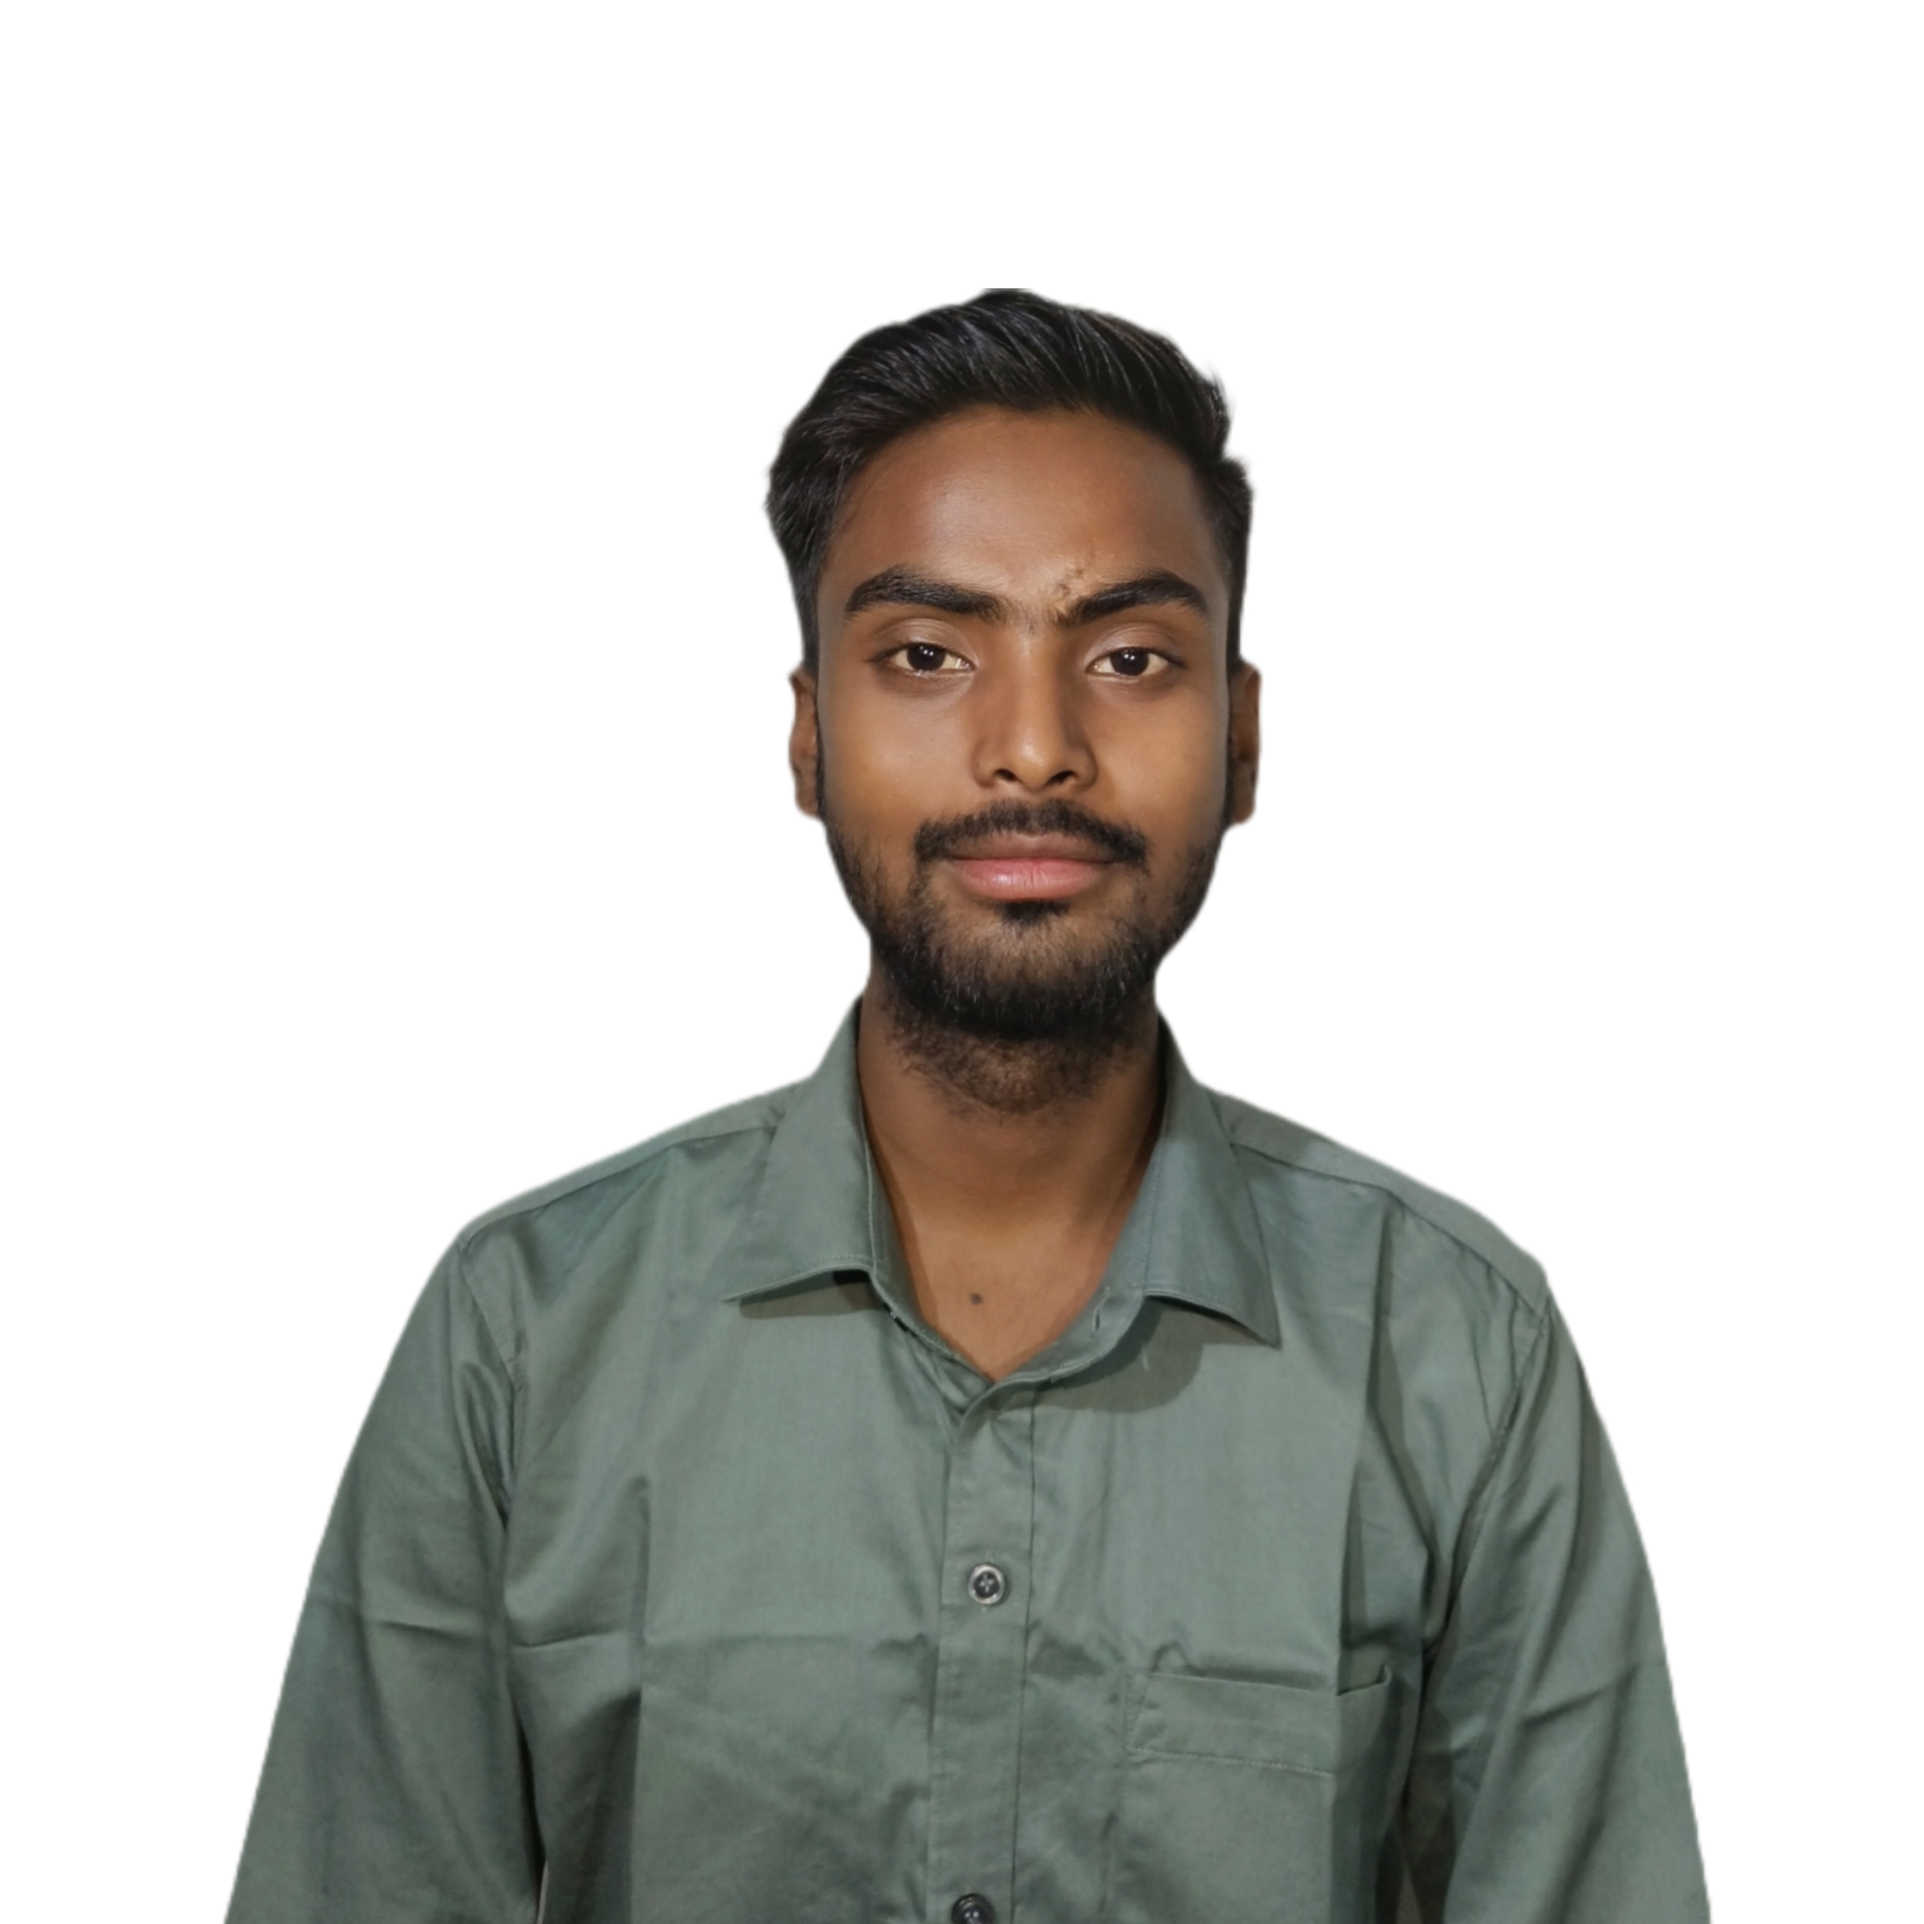
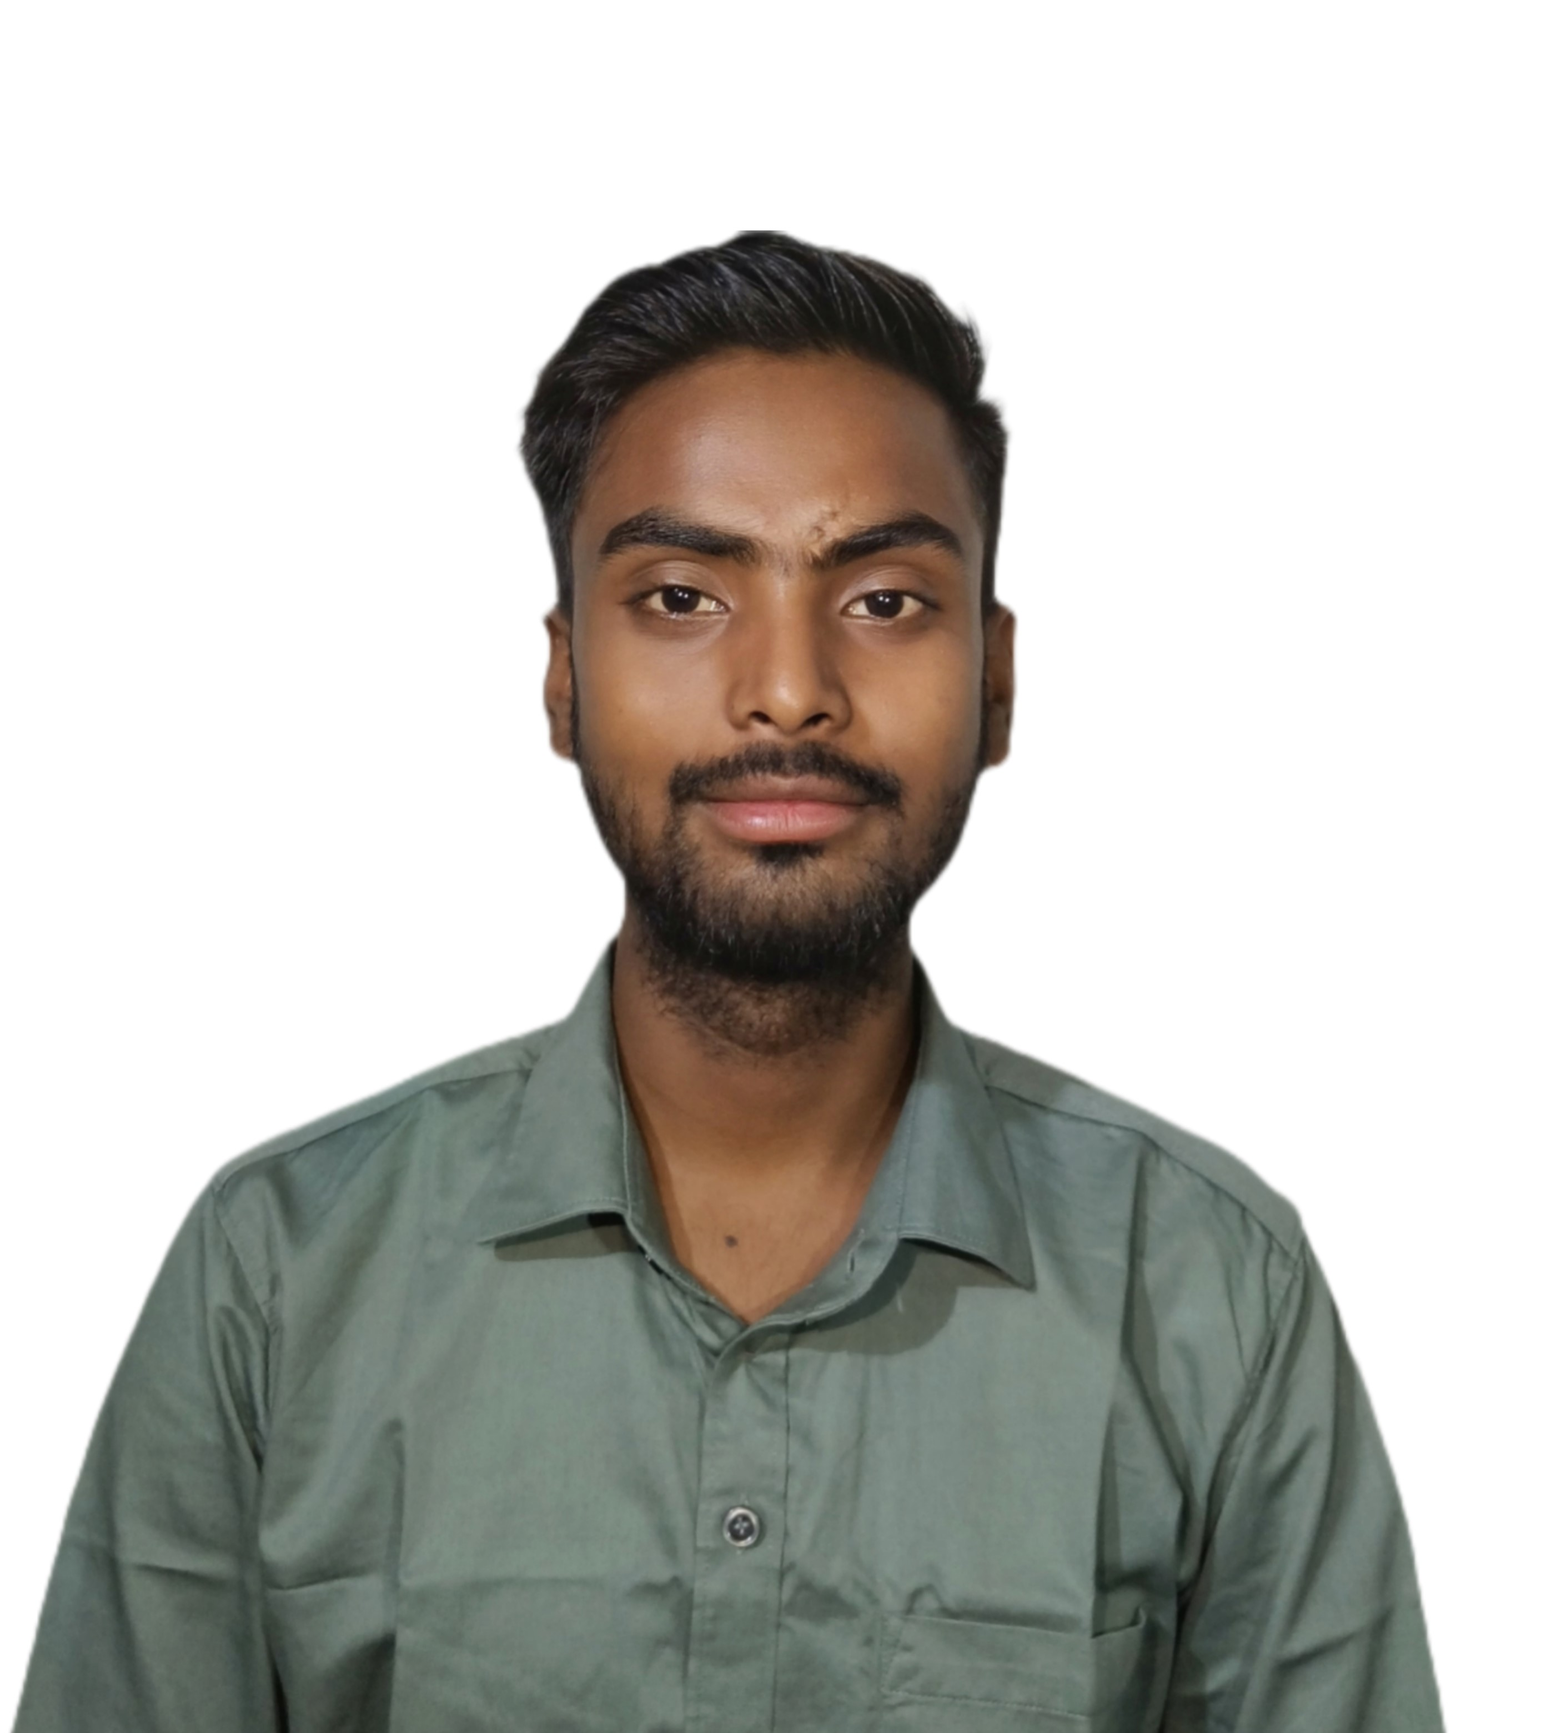
img change

Changed region(s): [[0.0, 0.1244, 0.9315, 1.0]]

diff --git a/index.html b/index.html
@@ -54,7 +54,7 @@
                     </div>
                 </div>
                 <div class="col-sm-4" id="image">
-                    <img src="assets/IMG20241010190218~2.jpg" class="profile-img" alt="">
+                    <img src="assets/Picsart_24-10-10_19-33-59-800-removebg-preview.png" class="profile-img" alt="">
                 </div>
             </div>
             <hr class="all-hr">

diff --git a/style.css b/style.css
@@ -79,7 +79,7 @@ header{
 }
 .profile-img{
     margin-top: 90px;
-    width: 350px;
+    width: 380px;
     height: 400px;
     border-radius: 50%;
     animation: floatImage 4s ease-in-out infinite;
